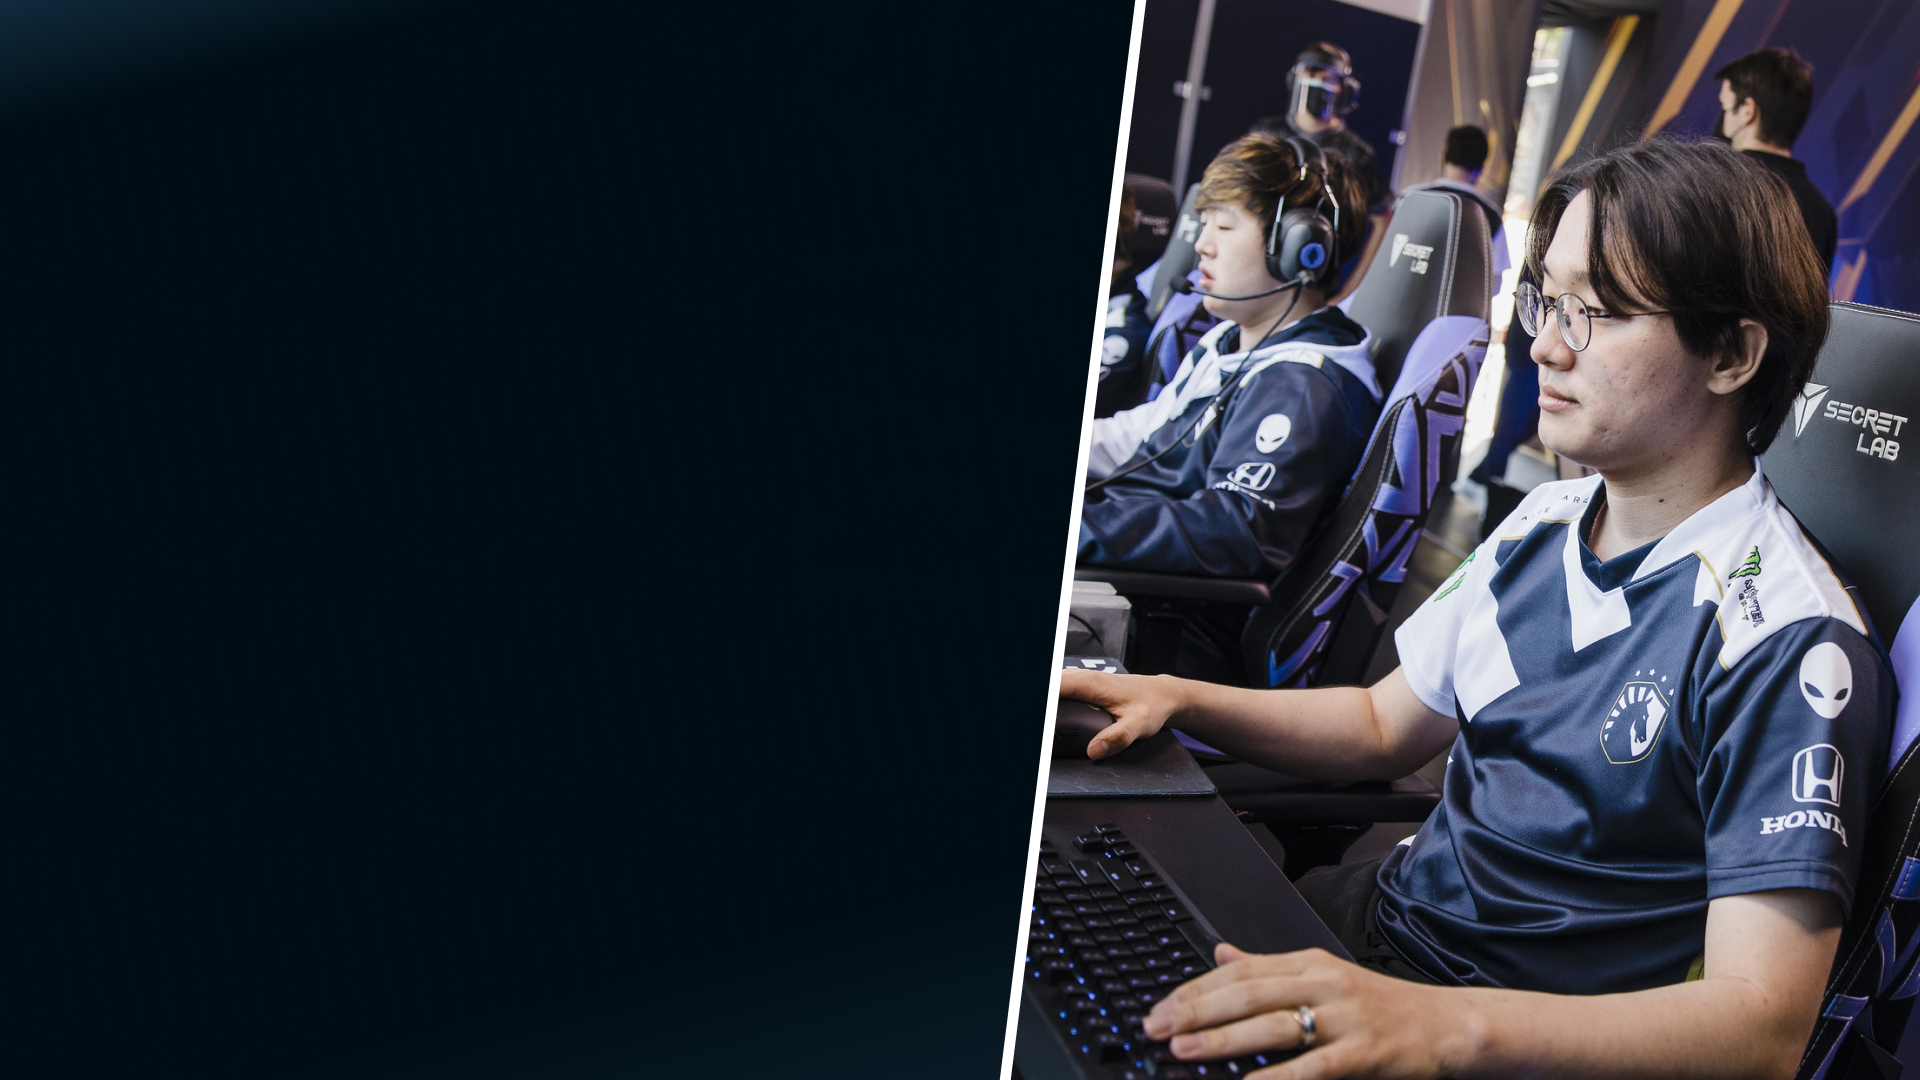
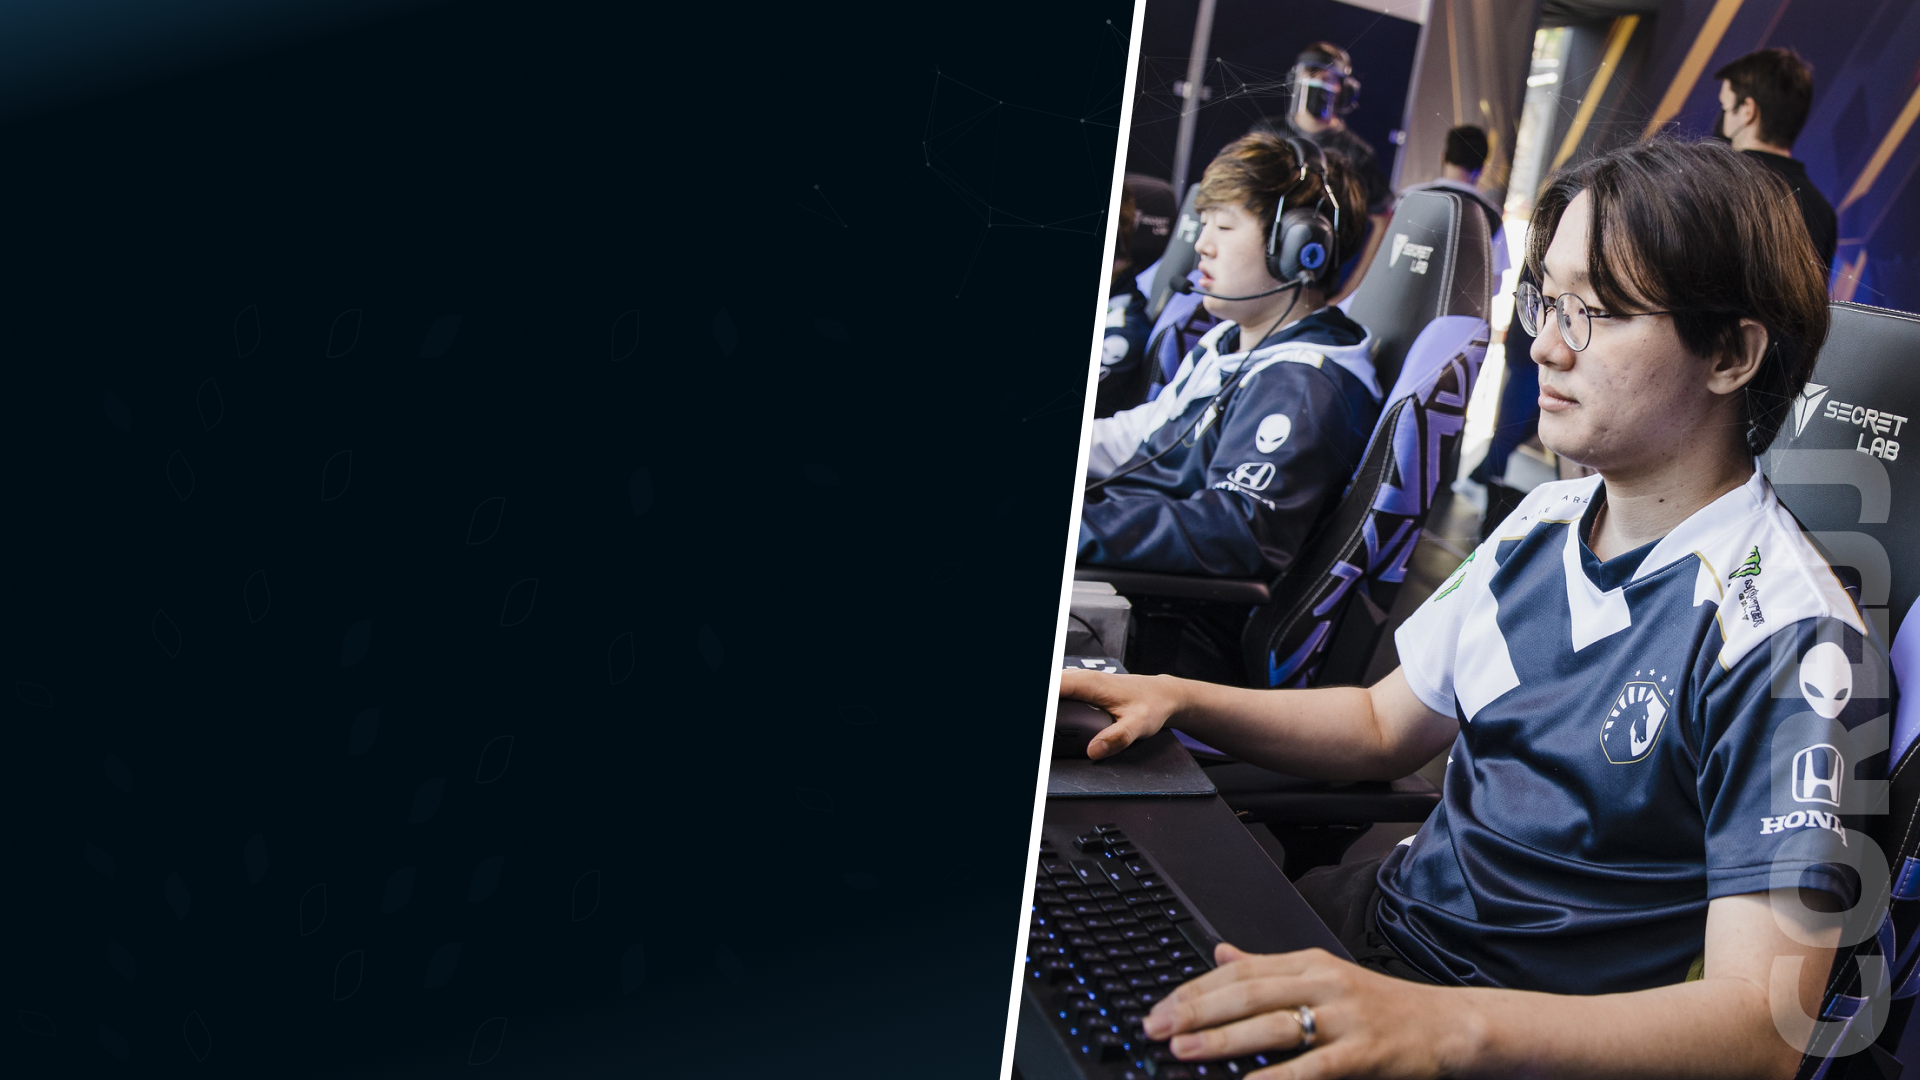
Home

Changed region(s): [[0.9062, 0.3972, 1.0, 0.9778]]

diff --git a/pages/index.js b/pages/index.js
@@ -2,6 +2,10 @@ import React from 'react';
 import Head from 'next/head';
 import UserContext from '../contexts/UserContext';
 import styles from '../styles/Home.module.scss';
+import Image from "next/image";
+
+import Points from '../public/points.svg'
+
 
 export default function Home() {
   //const context = React.useContext(UserContext);
@@ -66,7 +70,7 @@ export default function Home() {
         <input
           placeholder="Enter your IGN"
           onChange={handleInputChange}
-          value={values.username} 
+          value={values.username}
         ></input>
         <button
           type="submit"
@@ -75,6 +79,11 @@ export default function Home() {
           START
         </button>
       </form>
+      <div className={styles.wrapper}>
+        <Image src={'/hero-text.png'} alt="Hero" fill />
+      </div>
+      <img className={styles.points} src={Points} />
+
     </div>
   )
 }

diff --git a/styles/Home.module.scss b/styles/Home.module.scss
@@ -1,15 +1,43 @@
 .container {
   width: 100vw;
   height: 100vh;
-  background-image: url('/index_background.png');
+  background-image: url("/index_background.png");
   background-repeat: no-repeat;
   background-size: cover;
+  position: relative;
+}
+
+.wrapper {
+  position: absolute;
+  left: 5%;
+  top: 12.5%;
+  width: 1116px;
+  height: 445.22px;
+
+}
+
+.points {
+  position: absolute;
+  left: 5%;
+  bottom: 5%;
+  max-width: 50%;
+  height: auto;
 }
 
 @media only screen and (max-width: 600px) {
   .container {
     width: 100vw;
-    background: linear-gradient(164.26deg, #16374E -1.68%, #010D15 10.69%, #010D15 80.52%, #1F394A 126.01%);
+    background: linear-gradient(
+      164.26deg,
+      #16374e -1.68%,
+      #010d15 10.69%,
+      #010d15 80.52%,
+      #1f394a 126.01%
+    );
   }
 
+  .wrapper {
+    width: 388px;
+    height: 154.79px;
+  }
 }

diff --git a/pages/mindful.js b/pages/mindful.js
@@ -20,20 +20,20 @@ export default function Mindful() {
     }
     setDescription('Focus on the circles breathing in and out');
     setMeditating(true);
-    setTimer(8);
+    setTimer(6);
     clearInterval(timerInterval);
     timerInterval = setInterval(() => {
       setTimer(time => time - 1);
     }, 1000);
     interval = setInterval(() => {
       clearInterval(timerInterval);
-      setTimer(8);
+      setTimer(6);
       timerInterval = setInterval(() => {
         setTimer(time => time - 1);
       }, 1000)
       console.log(decreasing);
       setDecreasing(prevState => !prevState);
-    }, 8000);
+    }, 6000);
   }
 
   const endMeditation = () => {
@@ -45,7 +45,7 @@ export default function Mindful() {
     if (timerInterval) {
       clearInterval(timerInterval);
     }
-    setTimer(8);
+    setTimer(6);
   }
 
   return (

diff --git a/pages/components/common/header/navbar.jsx b/pages/components/common/header/navbar.jsx
@@ -1,6 +1,5 @@
 import React from "react";
 import Link from "next/link";
-import Image from "next/image";
 
 import styles from "../../../../styles/components/common/header/NavBar.module.scss";
 import { useRouter } from "next/router";

diff --git a/pages/components/postgame/history/history.jsx b/pages/components/postgame/history/history.jsx
@@ -17,6 +17,7 @@ const History = (props) => {
           toxicscore={0}
           tiltscore={23}
           winloss={true}
+          date={"Dec 3 9:21PM"}
         />
         <Matches
           map="Split"
